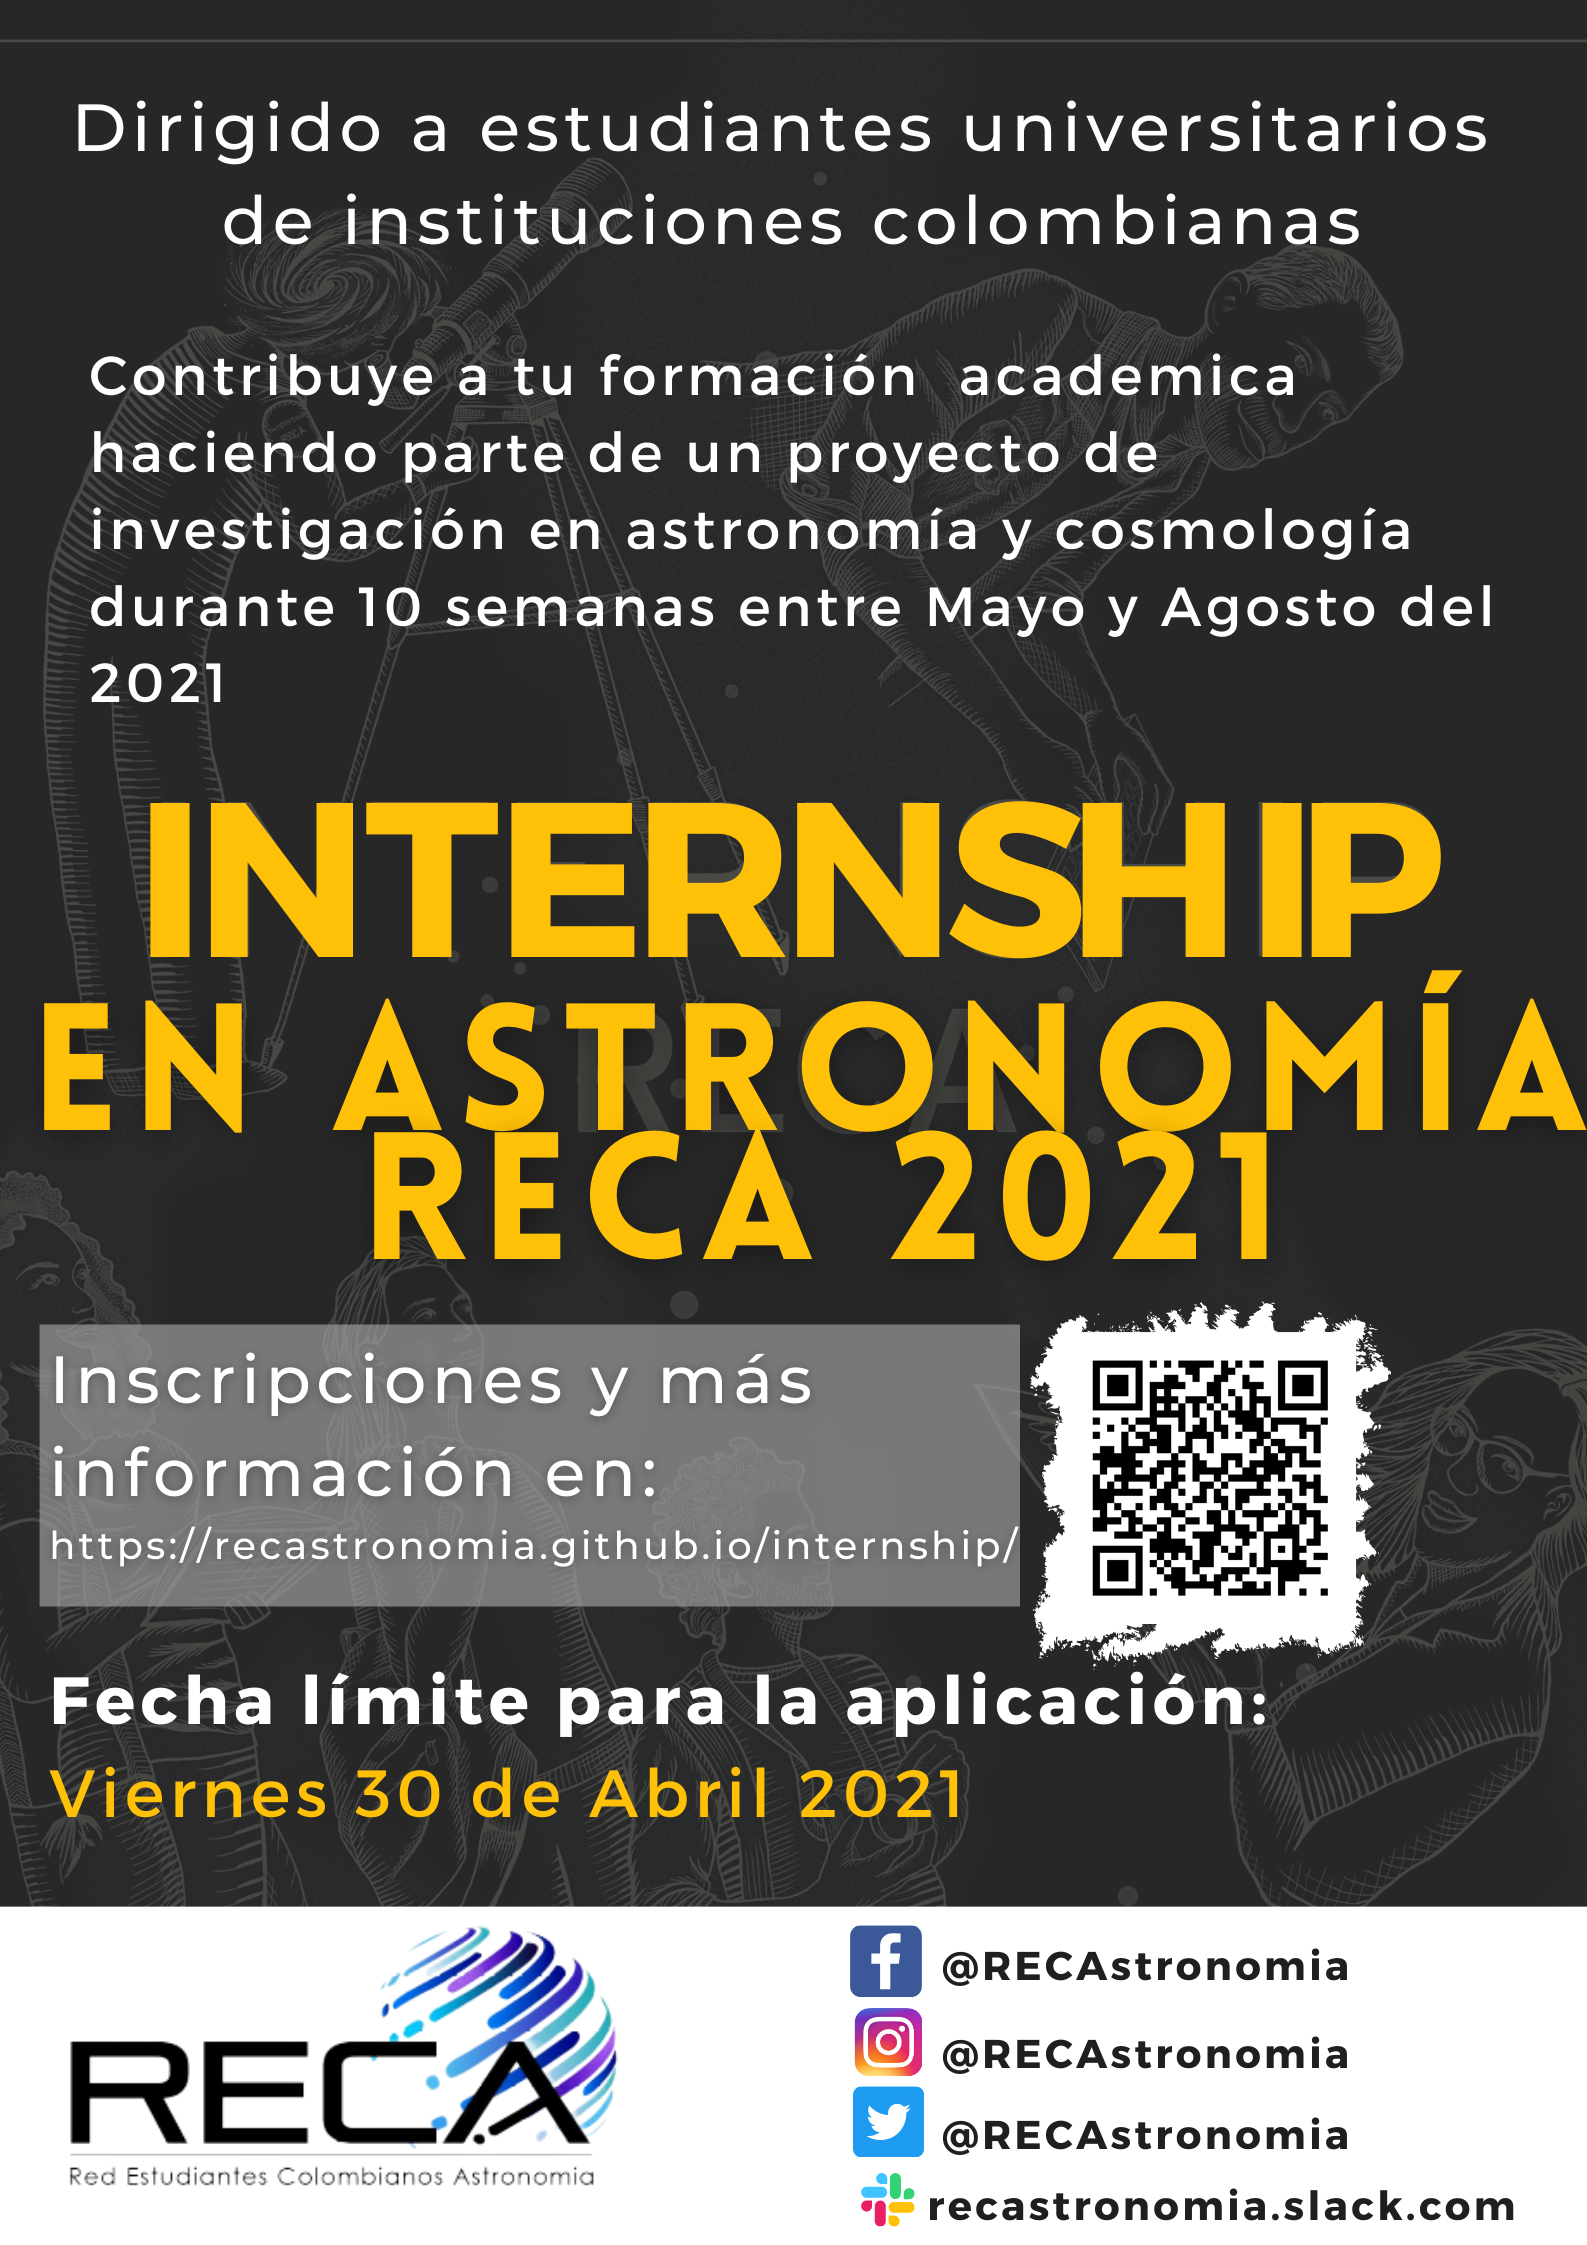
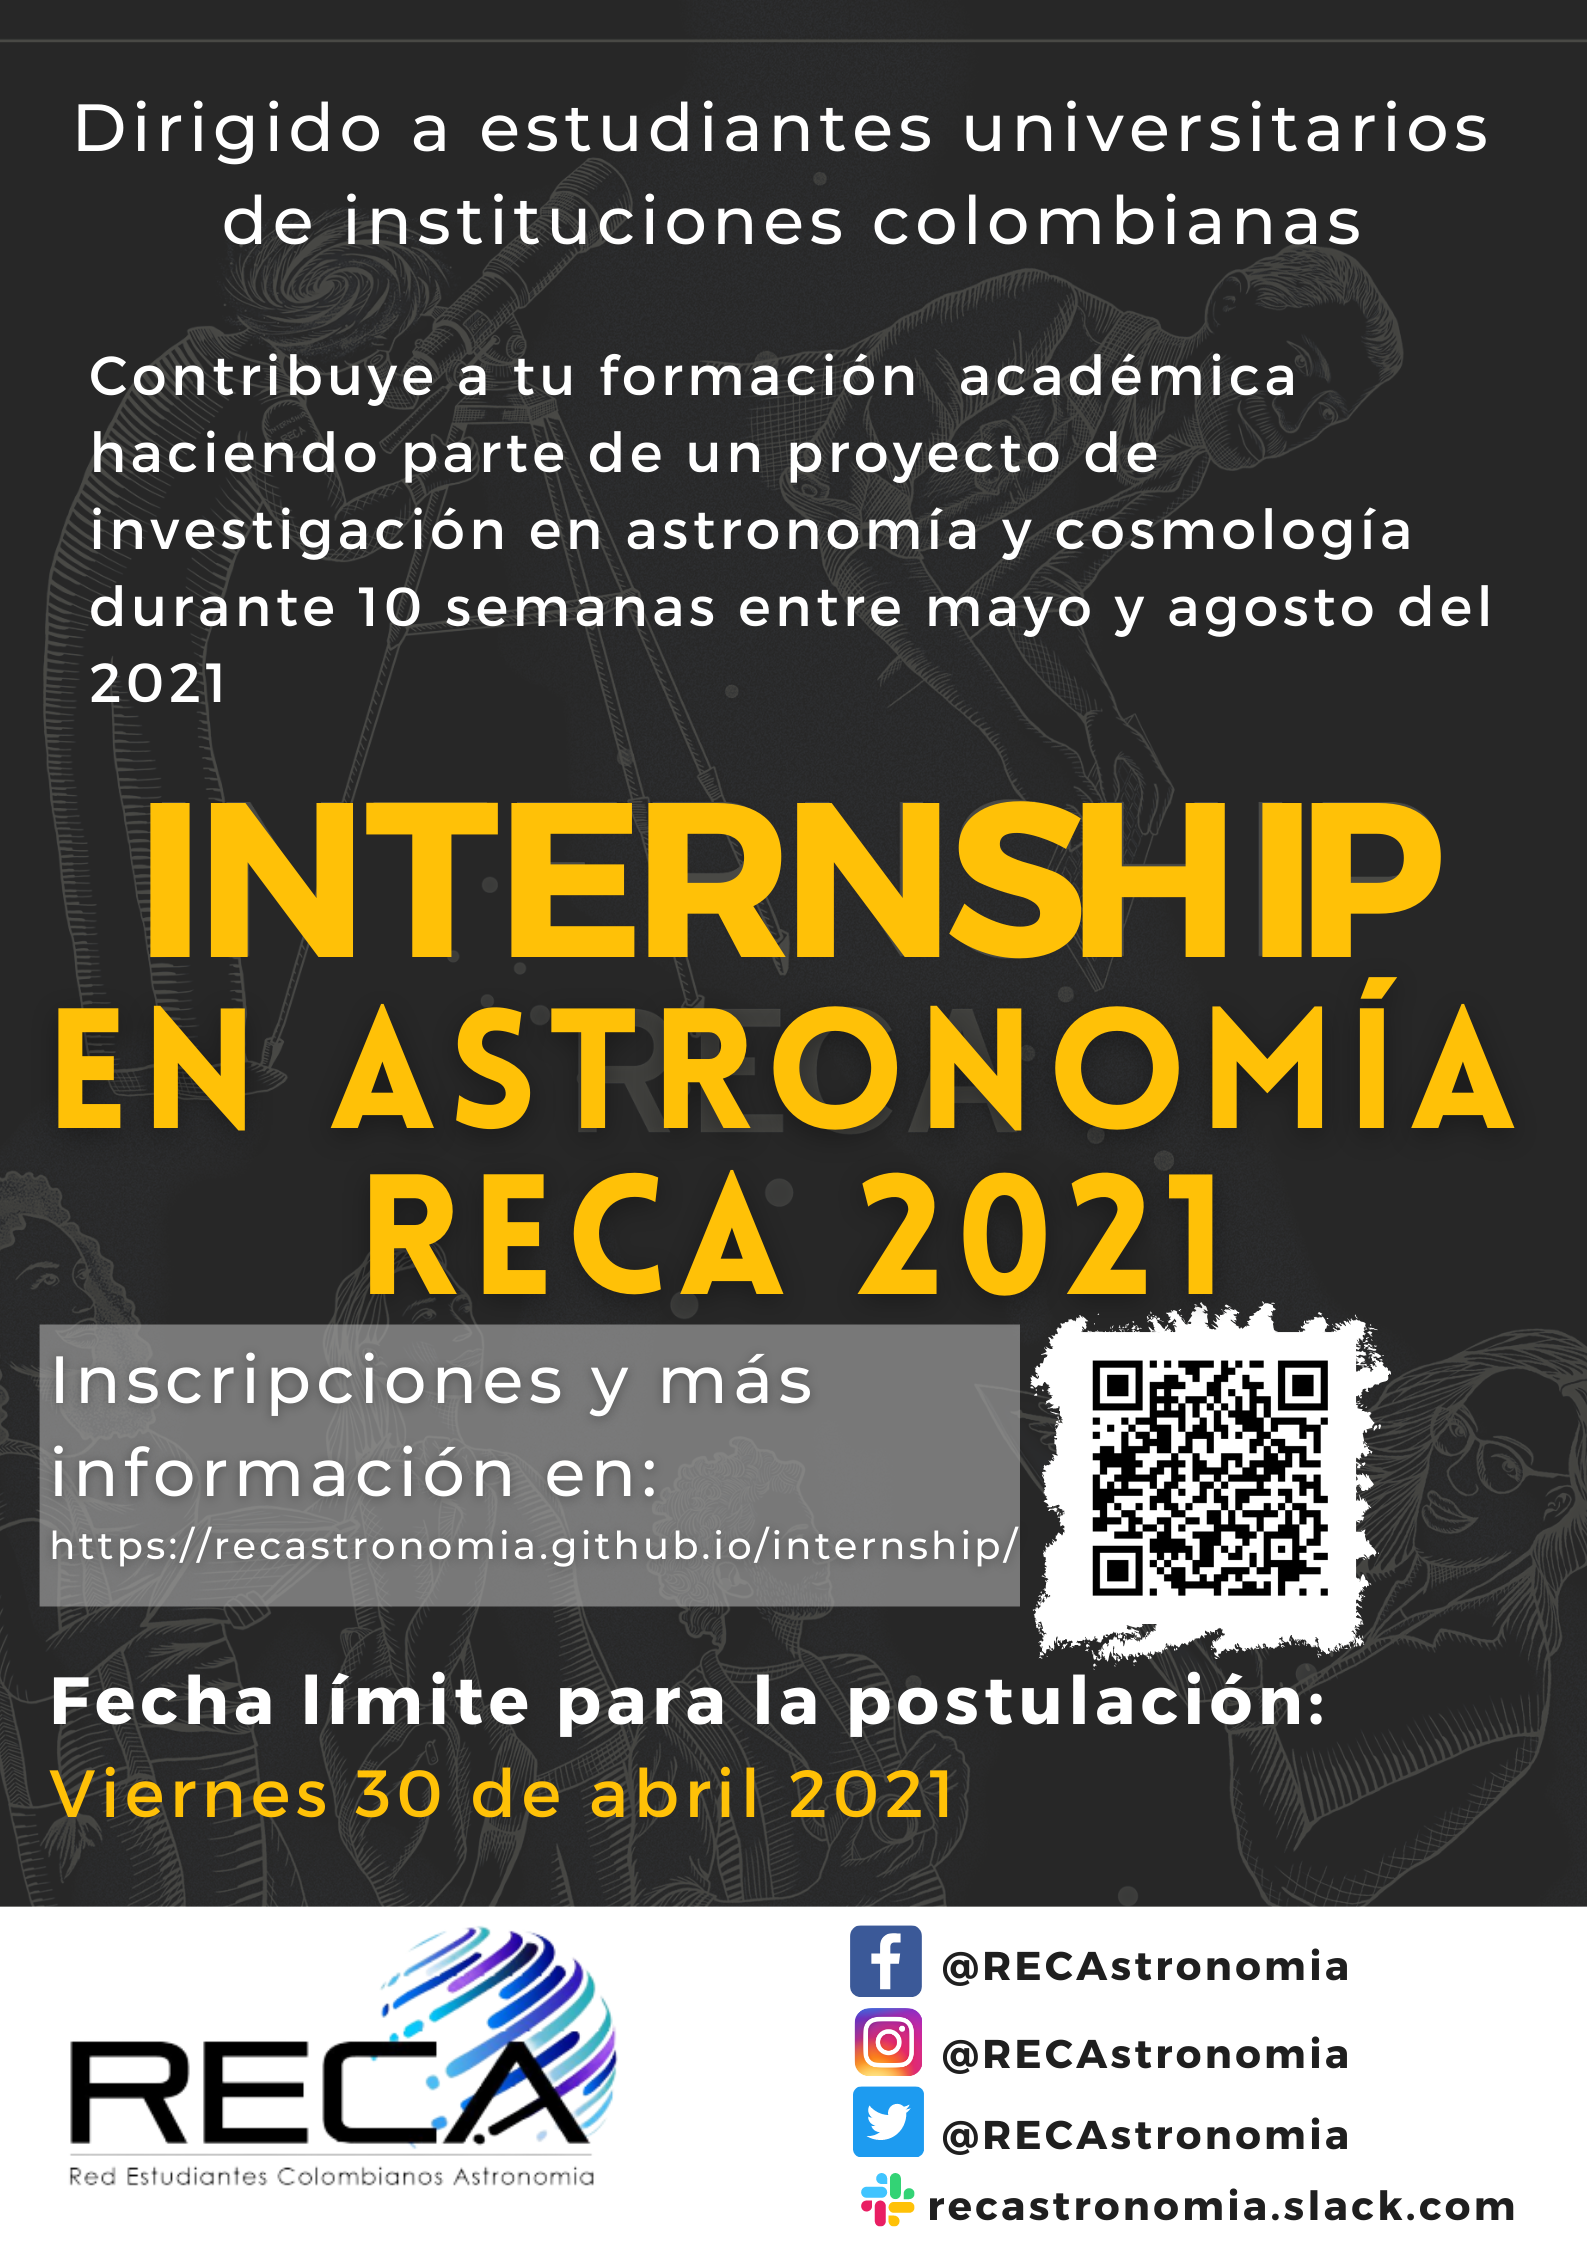
new poster and all projects in spanish

diff --git a/pages/internship.md b/pages/internship.md
@@ -224,26 +224,25 @@ _Supervisor: Dr. Leonardos Gkouvelis (NASA Αmes research center)_
 
 El modelo "NASA Ames Mars General Circulation Model (NASA-MGCM)" es un modelo 3D de la atmósfera de Marte. Tormentas de polvo suceden frecuentemente provenientes del desierto frío de Marte, en ocasiones pueden ocurrir en todo el planeta. En este proyecto vamos a usar simulaciones de varias tormentas de polvo en diferentes escenarios y vamos a calcular la probabilidad de generar campos eléctricos, descargas eléctricas y evaluar los peligros que estas puedan tener en la exploración humana en el planeta.  
 
-![]({{ site.urlimg }}mars_project.jpg "")
+![]({{ site.urlimg }}mars_project.jpg)
 
-#### 8. Open clusters in the line of sight of the Galactic's bar far end
+#### 8. Cúmulos abiertos en la línea de visión del extremo lejano de la barra galáctica
 _Supervisora: Prof. Karla Peña Ramírez (Universidad de Antofagasta)_
 
-Open clusters are the relics of the (sub)stellar formation processes. Their
-location, age,  total mass, dynamical state, metallicity, among others, help us
-to understand the different stages that live stars and low mass sources either
-as individual sources or as members of a larger conglomerate. They also allow us
-to map our Galaxy as tracers of its components.
-In this project, the student would have access to a multidimensional catalog of
-sources located in the line of sight of the Galactic's bar far end. The catalog
-has been successfully analyzed with unsupervised machine learning techniques
-tuned to find open clusters at distances of kpc order. The student's primary
-task would be to sweep the data-set in position, infrared colors, and proper
-motions parameter space to identify closer open clusters with an unveiled
-low-mass population by optical studies.  this project the student would have
-access to a multidimensional catalog of sources located in the line of sight of
-the Galactic's bar far end that has been previously tested to find open clusters
-at distances of the order of kpc.  
+Los cúmulos abiertos son reliquias de los procesos de formación (sub)estelar.
+Su ubicación, edad, masa total, estado dinámico, metalicidad, entre otros,
+nos ayudan a comprender las diferentes etapas que viven las estrellas y
+ las fuentes de baja masa, ya sea como fuentes individuales o como miembros de
+ un conglomerado mayor. También nos ayudan a mapear nuestra galaxia como trazadores
+  de sus componentes. En este proyecto, el estudiante tendría acceso a un catálogo
+  multidimensional de fuentes ubicadas en la línea de visión del extremo lejano
+   de la barra galáctica. El catálogo ha sido exitosamente analizado con técnicas
+   de machine learning no supervisado ajustadas para encontrar cúmulos abiertos
+   a distancias del orden de kiloparsecs. La tarea principal del estudiante
+   sería realizar un barrido del conjunto de datos en el espacio de parámetros,
+   en posición, colores infrarrojos, y movimientos propios, para identificar
+    cúmulos abiertos cercanos con una población de baja masa no revelada por
+    estudios ópticos.
 
 
 #### 9. Cosmología - Distribución de materia en el universo
@@ -314,11 +313,13 @@ referencias en él) y por lo tanto  más datos son necesarios para mejorar las
 restricciones en los modelos y mejorar nuestro entendimiento sobre la formación
 estelar masiva.
 
-#### 12. Identification of X-ray objects by resolving infrared sources:
+#### 12. Identificación de objetos de rayos-x mediante la resolución de fuentes infrarrojas:
 _Supervisor: Prof. Jose Joaquin Rodes Roca [https://blogs.ua.es/xragua/](https://blogs.ua.es/xragua/) (Universidad de Alicante)_
 
-![x-ray sources]({{ site.urlimg }}xray_sources.jpeg "X-ray sources from Rodes-Roca et al. (2013) ")
 
-Infrared catalogues have different resolutions. By cross-correlating these,
-multiple identifications will be resolved and their possible X-ray companion
-searched for. Based on our work Rodes-Roca et al. (2013).
+Los catálogos en infrarrojo tienen diferentes resoluciones. Mediante la
+correlación cruzada de estos, se resolverán múltiples identificaciones y se
+buscará un posible compañero en rayos X. Basado en nuestro trabajo Rodes-Roca
+et al. (2013)
+
+![x-ray sources]({{ site.urlimg }}xray_sources.jpeg "X-ray sources from Rodes-Roca et al. (2013) ")
